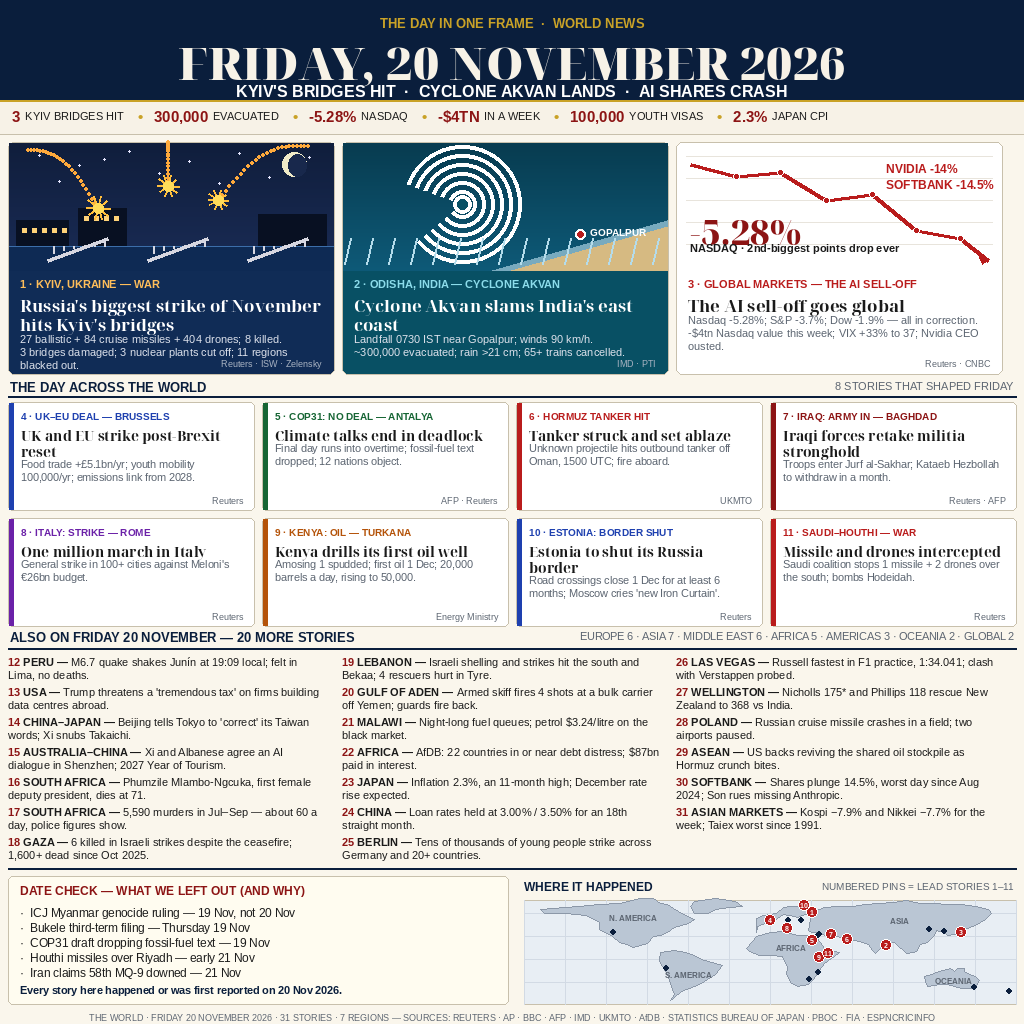
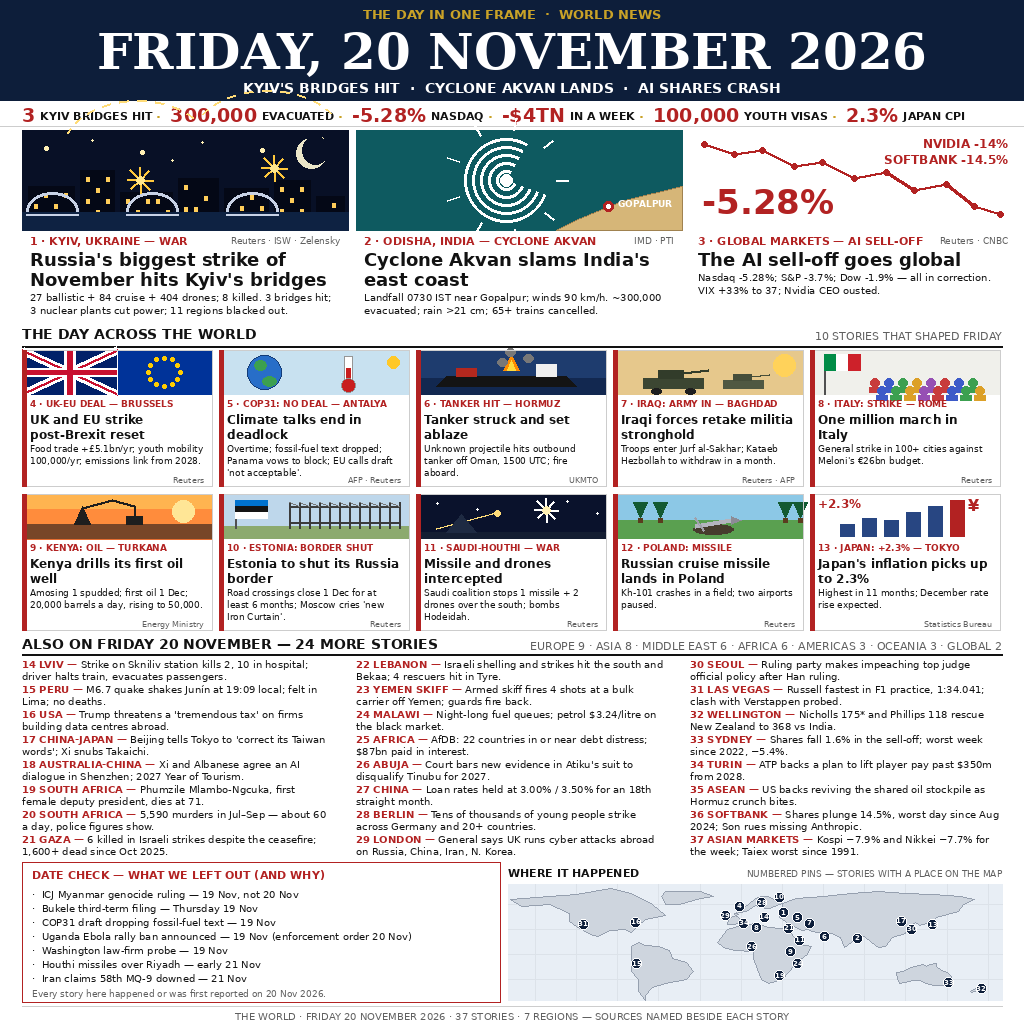
v2: 37 stories, illustrated mediums, 26 map pins, nuclear wording fix
- 31 -> 37 verified 20 Nov stories (6 new: Lviv station strike, UK cyber
  ops, ATP 50m player pay, Sydney -1.6%, Seoul impeachment adoption,
  Abuja court ruling; Poland missile + Japan CPI promoted to mediums)
- All 10 medium cards now carry small code-drawn scene illustrations
- Map pins 11 -> 26 numbered locations with de-cluttered Europe cluster
- Hero 1 wording: '3 nuclear plants cut off' -> '3 nuclear plants cut power'
- main.ts: added read-back byte-equality check (stdlib only)

diff --git a/main.ts b/main.ts
@@ -1,9 +1,9 @@
-// makefun-news-image-20261120 — entrypoint (Node 22, standard library only).
+// makefun-news-image-20261120 — v2 entrypoint (Node 22, standard library only).
 //
 // The image is the product: entry.png beside this file is copied byte-for-byte
 // to $MAKEFUN_OUTPUT_DIR/entry.png (or /output/entry.png inside the grader).
-// No network, no randomness, no timestamps — the two grader runs must produce
-// identical bytes, which a plain copy guarantees by construction.
+// No network, no randomness, no timestamps — a plain copy is deterministic
+// by construction, so the two grader runs produce identical bytes.
 
 import { copyFileSync, mkdirSync, readFileSync } from "node:fs";
 import { createHash } from "node:crypto";
@@ -32,9 +32,13 @@ if (width > 1024 || height > 1024) {
 mkdirSync(outDir, { recursive: true });
 copyFileSync(source, target);
 
-const written = readFileSync(target);
-if (!written.equals(bytes)) {
-  throw new Error("copied entry.png differs from the source file");
+// Read-back check: the written file must be byte-identical to the repo
+// copy. If it is not, the run is not reproducible — fail loudly.
+const back = readFileSync(target);
+if (!back.equals(bytes)) {
+  throw new Error("read-back mismatch: output differs from repo entry.png");
 }
-const sha = createHash("sha256").update(written).digest("hex");
-console.log(`wrote ${target} (${written.length} bytes, ${width}x${height}, sha256 ${sha})`);
+console.log("read-back check: output is byte-identical to repo entry.png");
+
+const sha = createHash("sha256").update(bytes).digest("hex");
+console.log(`wrote ${target} (${bytes.length} bytes, ${width}x${height}, sha256 ${sha})`);

diff --git a/README.md b/README.md
@@ -10,14 +10,15 @@ One image that sums up the world news of Friday, 20 November 2026.
 
 ## The image
 
-A code-drawn broadsheet front page (`entry.png`, 1024×1024, 237,062 bytes):
+A code-drawn broadsheet front page (`entry.png`, 1024×1024, 204,188 bytes):
 navy masthead with the date in large serif type, a six-number ticker, a hero
 triptych (Kyiv's bridges under missile attack, Cyclone Akvan's landfall in
-Odisha, the global AI sell-off chart), eight medium story cards, twenty more
-briefs, a world map with numbered pins, and a DATE CHECK box naming the
-near-miss stories that were deliberately left out because they belong to
-19 or 21 November. Every letter is drawn by code with PIL, so no text can
-garble. 31 verified stories across 7 regions.
+Odisha, the global AI sell-off chart), ten medium story cards each with a
+small code-drawn scene illustration, twenty-four more briefs, a world map
+with 26 numbered pins, and a DATE CHECK box naming the near-miss stories
+that were deliberately left out because they belong to 19 or 21 November.
+Every letter is drawn by code with PIL, so no text can garble. 37 verified
+stories across 7 regions.
 
 Stories covered: Russia's largest November strike on Kyiv (27 ballistic +
 84 cruise missiles + 404 drones, 3 bridges damaged); Cyclone Akvan's
@@ -25,8 +26,9 @@ landfall near Gopalpur (~300,000 evacuated); the AI sell-off (Nasdaq
 −5.28%, Nvidia −14%, SoftBank −14.5%, Kospi −5.2%); the UK–EU post-Brexit
 deal; the COP31 final-day deadlock; a tanker struck in the Strait of
 Hormuz; Iraqi forces retaking Jurf al-Sakhar; Italy's general strike;
-Kenya's first oil well; Estonia closing its Russia border; and twenty
-more verified developments from Peru to Wellington.
+Kenya's first oil well; Estonia closing its Russia border; a Russian cruise
+missile landing in Poland; Japan's inflation picking up to 2.3%; and
+twenty-four more verified developments from Lviv to Sydney.
 
 ## The program
 
